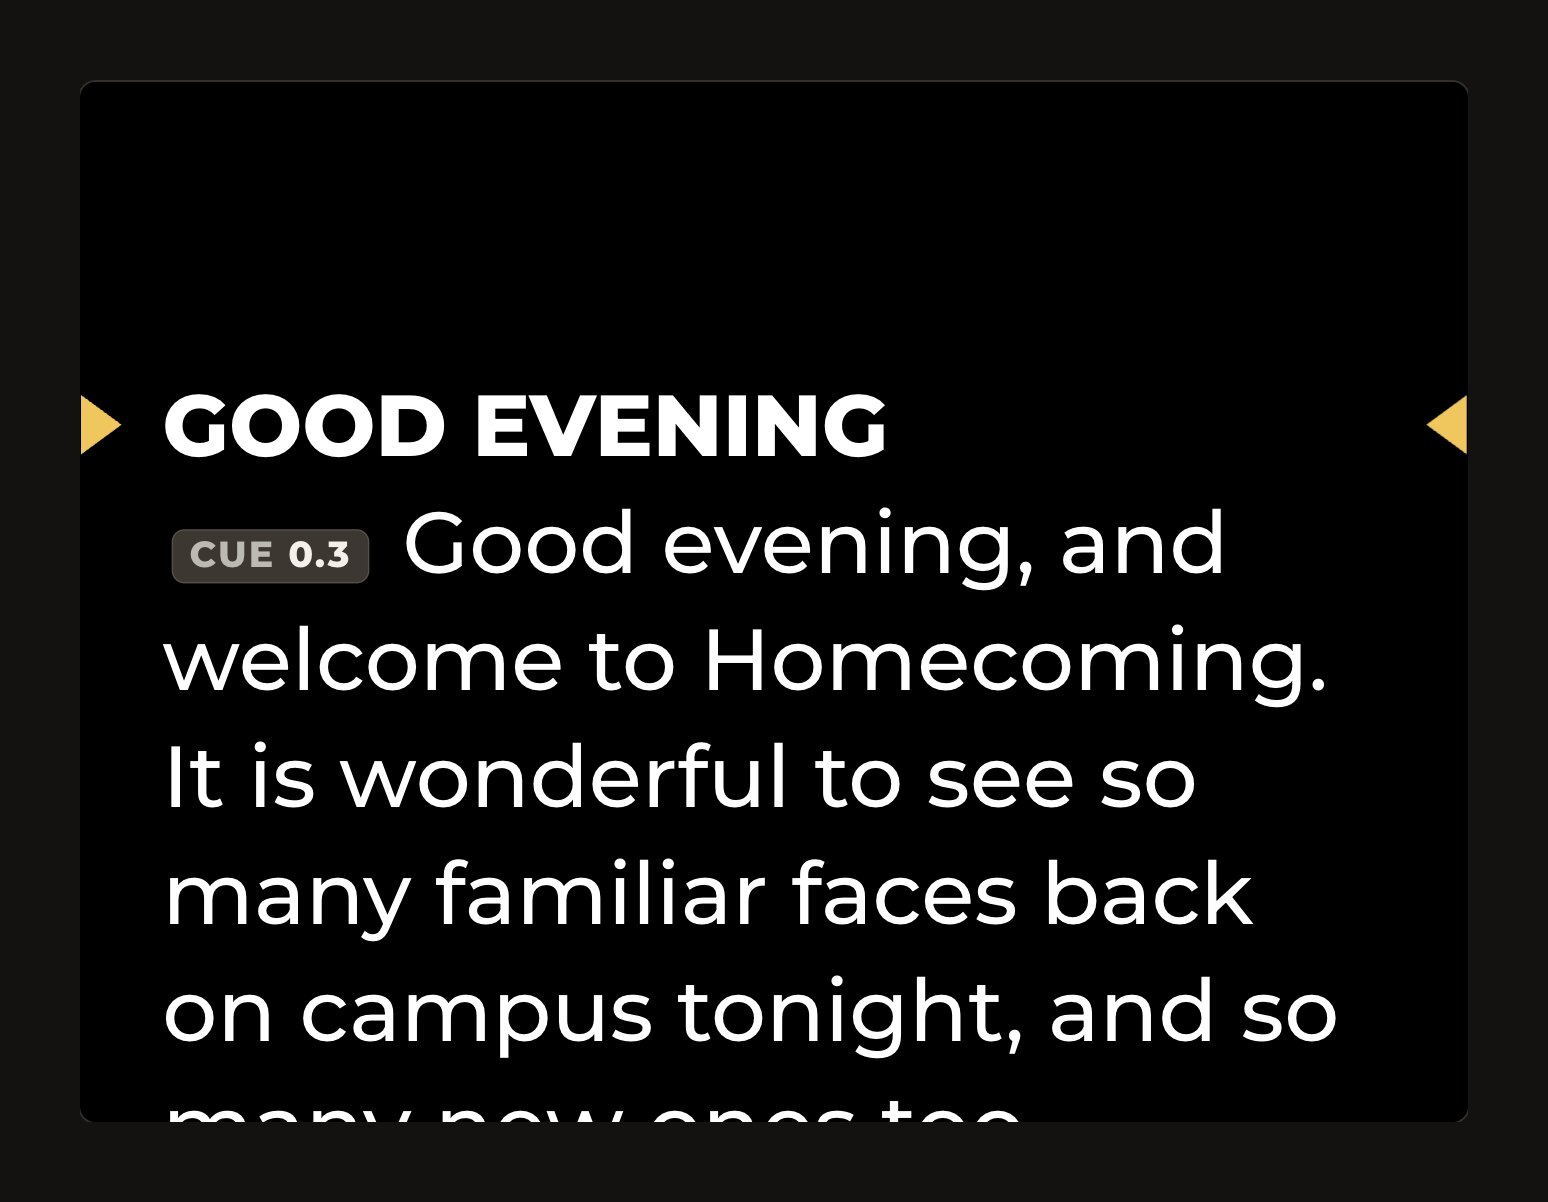
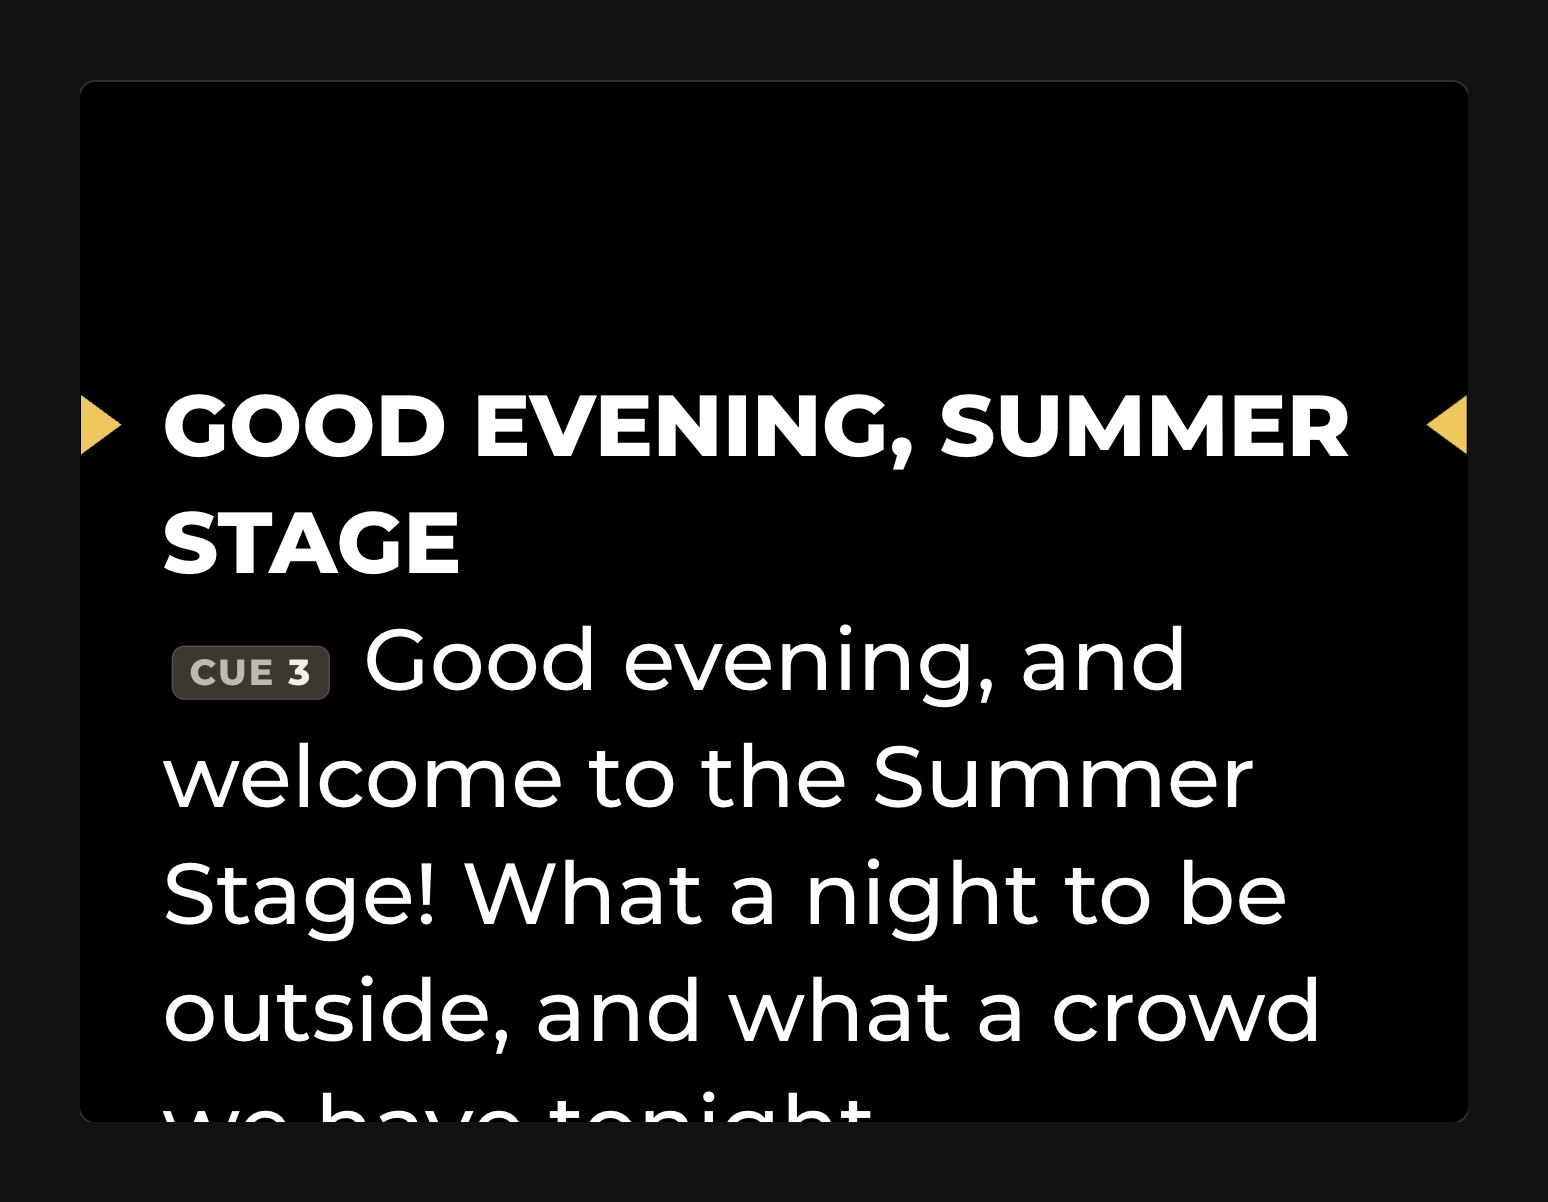
Round 8: every screenshot shows one event, Concert @ TAGS Summer Stage, built from a real show's order and patch sheet

diff --git a/index.html b/index.html
@@ -72,7 +72,7 @@
       <div class="txt" data-reveal><div class="k">The drawing</div><h3>Drag in the gear. Click to connect it.</h3>
         <p>Pick from a library of the gear BSI owns and drop it in place. Click one connection point, then another, and the cable is drawn.</p>
         <ul><li>Every device comes with its real connections</li><li>It warns you when two plugs won't fit together</li></ul></div>
-      <div class="vis"><div class="shot"><img src="img/pm-zoom.jpg" alt="Close-up of a video router wired to cameras, every connection labelled" loading="lazy"></div></div>
+      <div class="vis"><div class="shot"><img src="img/pm-zoom.jpg" alt="Close-up of the monitor console wired to each performer's in-ear transmitter" loading="lazy"></div></div>
     </div>
     <div class="feat">
       <div class="txt" data-reveal><div class="k">The cable list</div><h3>Print the cable list and the labels.</h3>
@@ -111,7 +111,7 @@
       <div class="txt" data-reveal><div class="k">Pull &amp; check-in</div><h3>Pull it line by line. Check it back in the same way.</h3>
         <p>“Pulling” is taking the gear off the shelves for your event. Technicians work through the order on their phones and mark each item as it's pulled, then loaded. When it comes back, they check it in the same way and log anything damaged or missing.</p></div>
       <div class="vis phones"><div class="shot ph"><img src="img/ph-sc-pull.jpg" alt="Pull screen on a phone: 36 of 54 items pulled" loading="lazy"></div>
-        <div class="shot panel"><img src="img/sc-intake-list.jpg" alt="Check-in list with a missing cable and a short count flagged" loading="lazy"></div></div>
+        <div class="shot panel"><img src="img/sc-intake-list.jpg" alt="Check-in list with a missing loom and a short count flagged" loading="lazy"></div></div>
     </div>
     <div class="feat">
       <div class="txt" data-reveal><div class="k">Today &amp; the wall</div><h3>Everyone knows what needs them.</h3>
@@ -138,8 +138,8 @@
     <div class="feat has-sub">
       <div class="txt" data-reveal><div class="k">3D plan</div><h3>See the whole load, front to back.</h3>
         <p>Loader knows the size, weight and rules of every case BSI owns. It blocks unsafe stacks, finds the smallest truck that fits, and builds the loading order as you go.</p></div>
-      <div class="vis"><div class="shot"><img src="img/ld-truck.jpg" alt="A 26-foot truck packed with numbered cases in 3D" loading="lazy"></div>
-        <div class="shot sub" style="--w:300px;--b:-16%;--r:-6%"><img src="img/ld-insp.jpg" alt="This load: 39 percent of the space used, and the loading order" loading="lazy"></div></div>
+      <div class="vis"><div class="shot"><img src="img/ld-truck.jpg" alt="A 48-foot trailer packed with 39 numbered cases in 3D" loading="lazy"></div>
+        <div class="shot sub" style="--w:300px;--b:-16%;--r:-6%"><img src="img/ld-insp.jpg" alt="This load: 26 percent of the space filled" loading="lazy"></div></div>
     </div>
     <div class="feat">
       <div class="txt" data-reveal><div class="k">What's inside</div><h3>Spot the speakers from across the room.</h3>
@@ -168,10 +168,11 @@
     <p class="lede" data-reveal>Stage lights hang from truss, the metal beams above a stage. TrussTape turns the lighting designer's plan into a full-size paper tape. Stick it on the truss, and every light's label sits exactly where that light hangs.</p>
   </div>
   <div class="feats">
-    <div class="feat">
+    <div class="feat has-sub">
       <div class="txt" data-reveal><div class="k">The tape</div><h3>Hang every light in the right spot, first time.</h3>
         <p>Each label says which light goes there and what it's for, printed along a ruler so the crew can measure as they go. It prints on an ordinary receipt printer.</p></div>
-      <div class="vis"><div class="shot"><img src="img/tt-tape-close.jpg" alt="Printed tape: the Truss 2 header, then labels for two lights" loading="lazy"></div></div>
+      <div class="vis"><div class="shot" style="--mw:520px"><img src="img/tt-tape-close.jpg" alt="Printed tape label: unit 1, channel 101, Chauvet Rogue R2X Spot, key light, 18 feet stage right" loading="lazy"></div>
+        <div class="shot sub" style="--w:260px;--l:-6%;--r:auto;--b:-22%"><img src="img/tt-tape-head.jpg" alt="Tape header: Truss 1, page 1 of 13, Concert @ TAGS Summer Stage" loading="lazy"></div></div>
     </div>
     <div class="feat">
       <div class="txt" data-reveal><div class="k">From the plan</div><h3>Straight from the designer's drawing.</h3>
@@ -198,8 +199,8 @@
     <div class="feat has-sub">
       <div class="txt" data-reveal><div class="k">The caller</div><h3>StandBy, GO.</h3>
         <p>The next cue waits in amber, on “standby”. Press Space and it goes live in green, with its clock running and the next cue lined up behind it. You always know if the show is running early or late.</p></div>
-      <div class="vis"><div class="shot" style="--mw:520px"><img src="img/sb-standby.jpg" alt="Standby card: cue 2, Gates Open" loading="lazy"></div>
-        <div class="shot sub" style="--w:360px;--b:-20%;--r:-4%"><img src="img/sb-live.jpg" alt="Live card: cue 1, 1:43 remaining" loading="lazy"></div></div>
+      <div class="vis"><div class="shot" style="--mw:520px"><img src="img/sb-standby.jpg" alt="Standby card: cue 7, blackout and headliner intro video" loading="lazy"></div>
+        <div class="shot sub" style="--w:360px;--b:-20%;--r:-4%"><img src="img/sb-live.jpg" alt="Live card: cue 6, Guest 2 and Guest 3 set" loading="lazy"></div></div>
     </div>
     <div class="feat">
       <div class="txt" data-reveal><div class="k">Every screen</div><h3>Change it once. Every screen updates.</h3>
@@ -209,7 +210,7 @@
     <div class="feat">
       <div class="txt" data-reveal><div class="k">Teleprompter</div><h3>The speaker's script and the cues, in step.</h3>
         <p>The script scrolls on a teleprompter in front of the speaker. The caller sees exactly how many lines are left before the next cue, so the lights change on the right word.</p></div>
-      <div class="vis"><div class="shot"><img src="img/sb-preview.jpg" alt="Teleprompter: Good evening, and welcome to Homecoming" loading="lazy"></div></div>
+      <div class="vis"><div class="shot"><img src="img/sb-preview.jpg" alt="Teleprompter: Good evening, Summer Stage" loading="lazy"></div></div>
     </div>
   </div>
 
